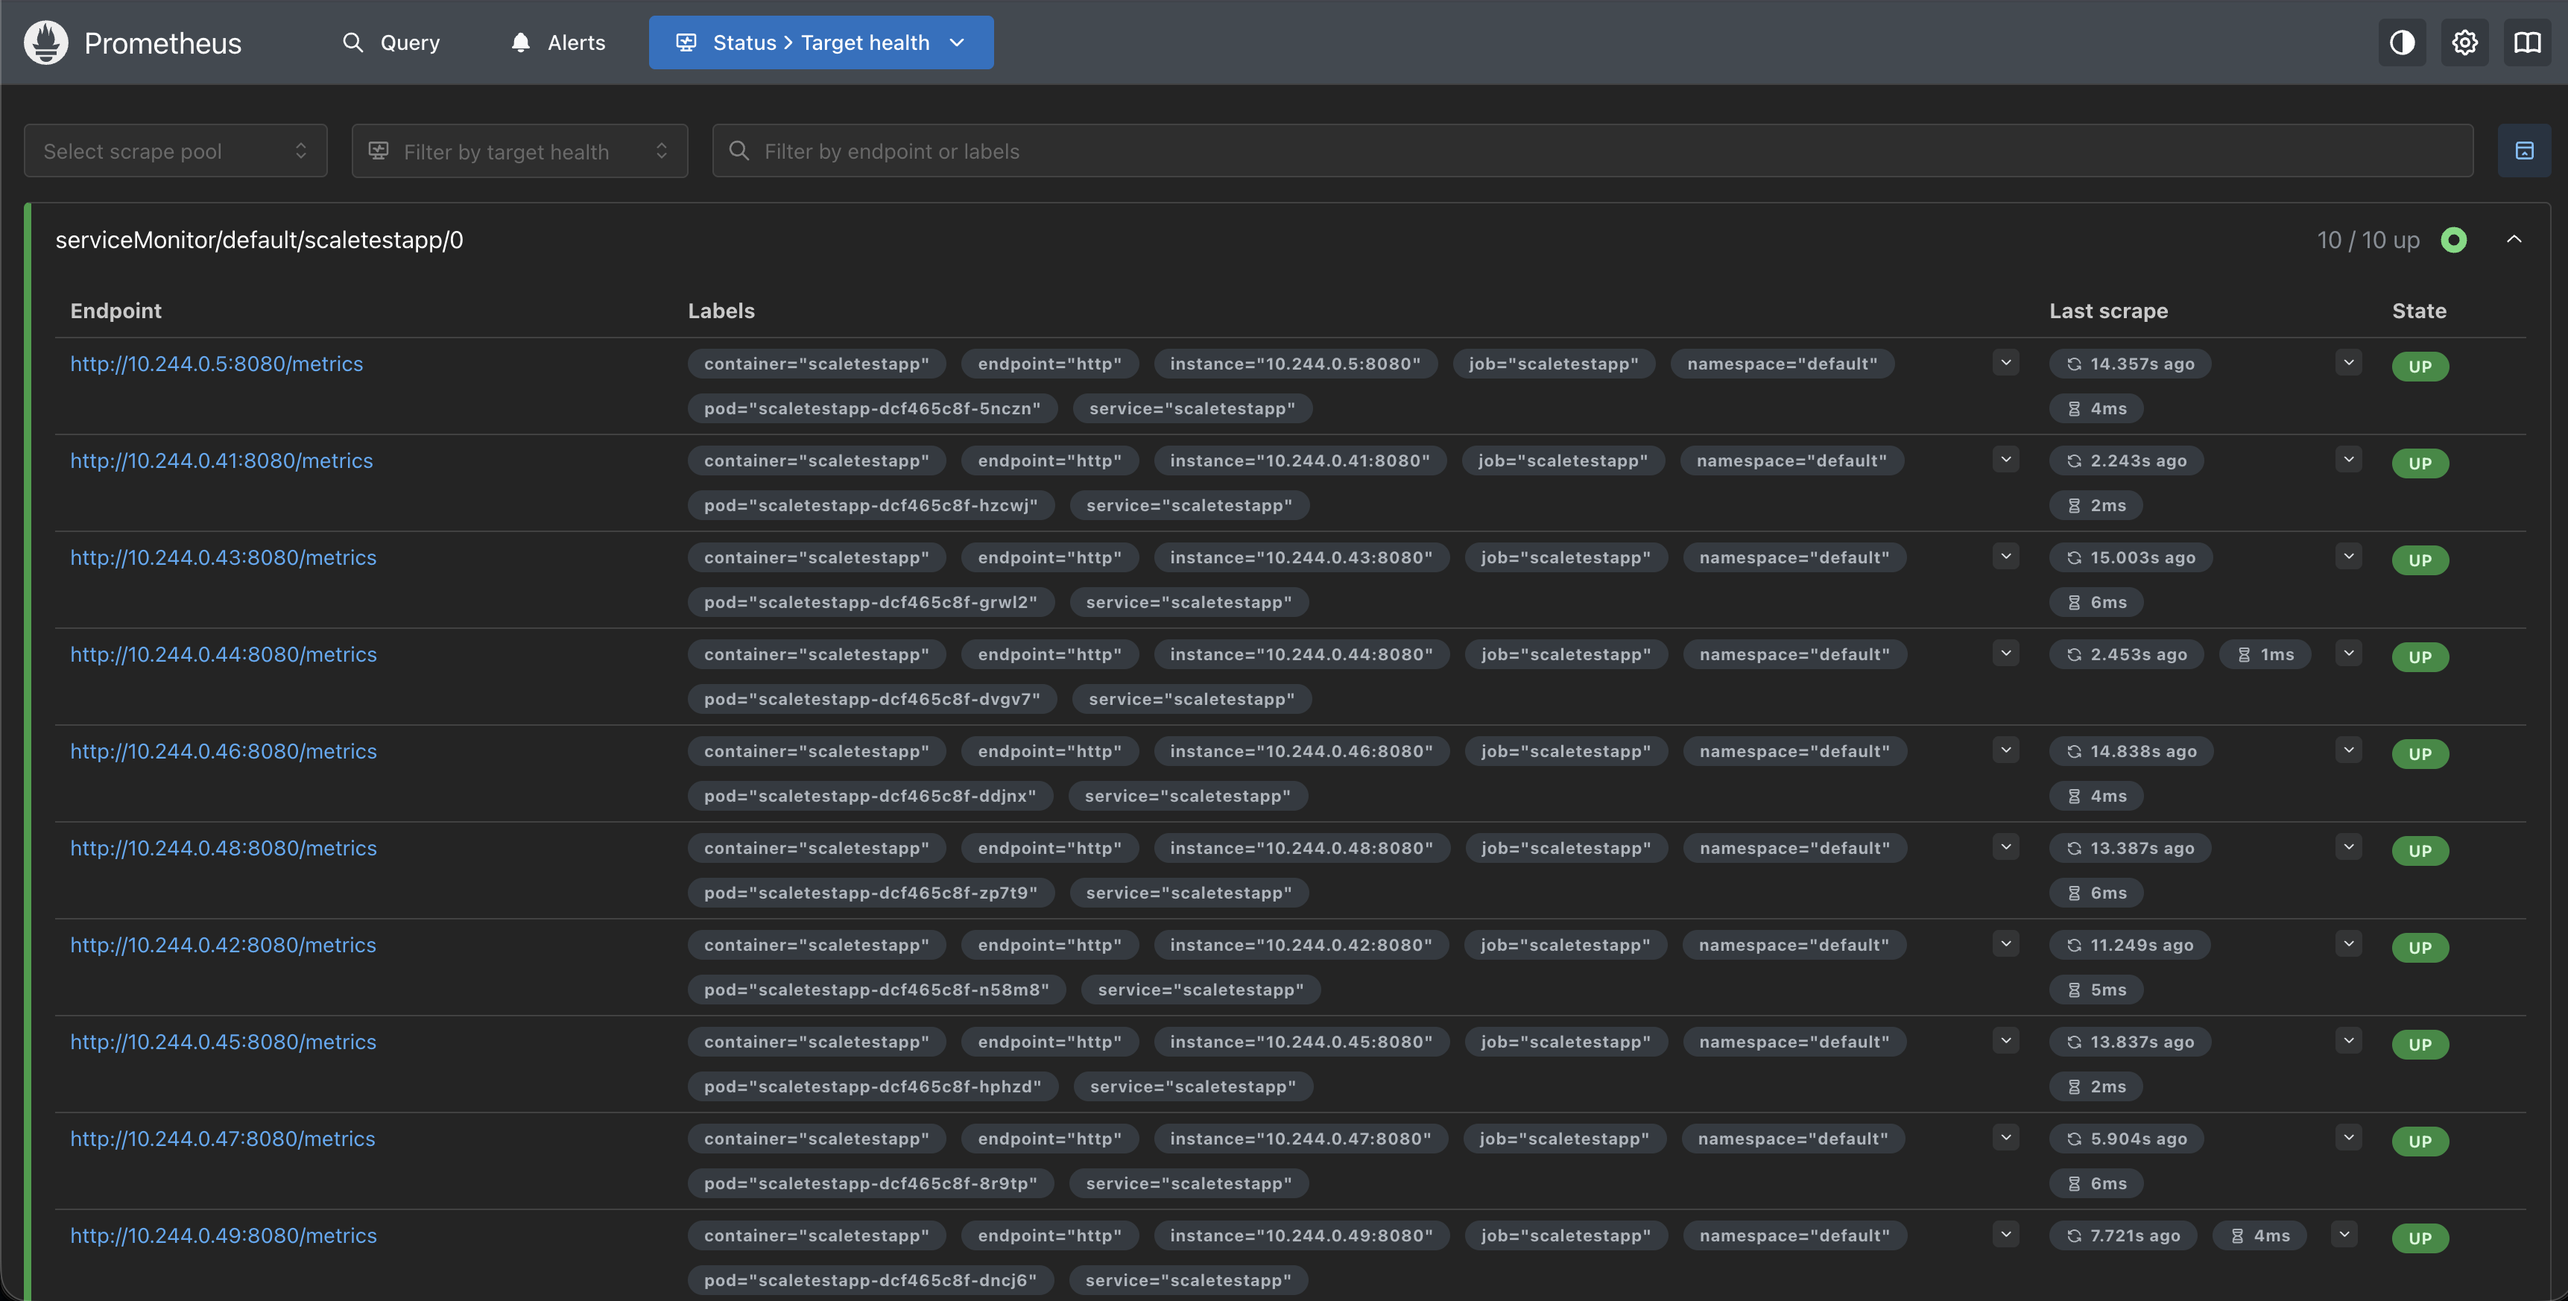
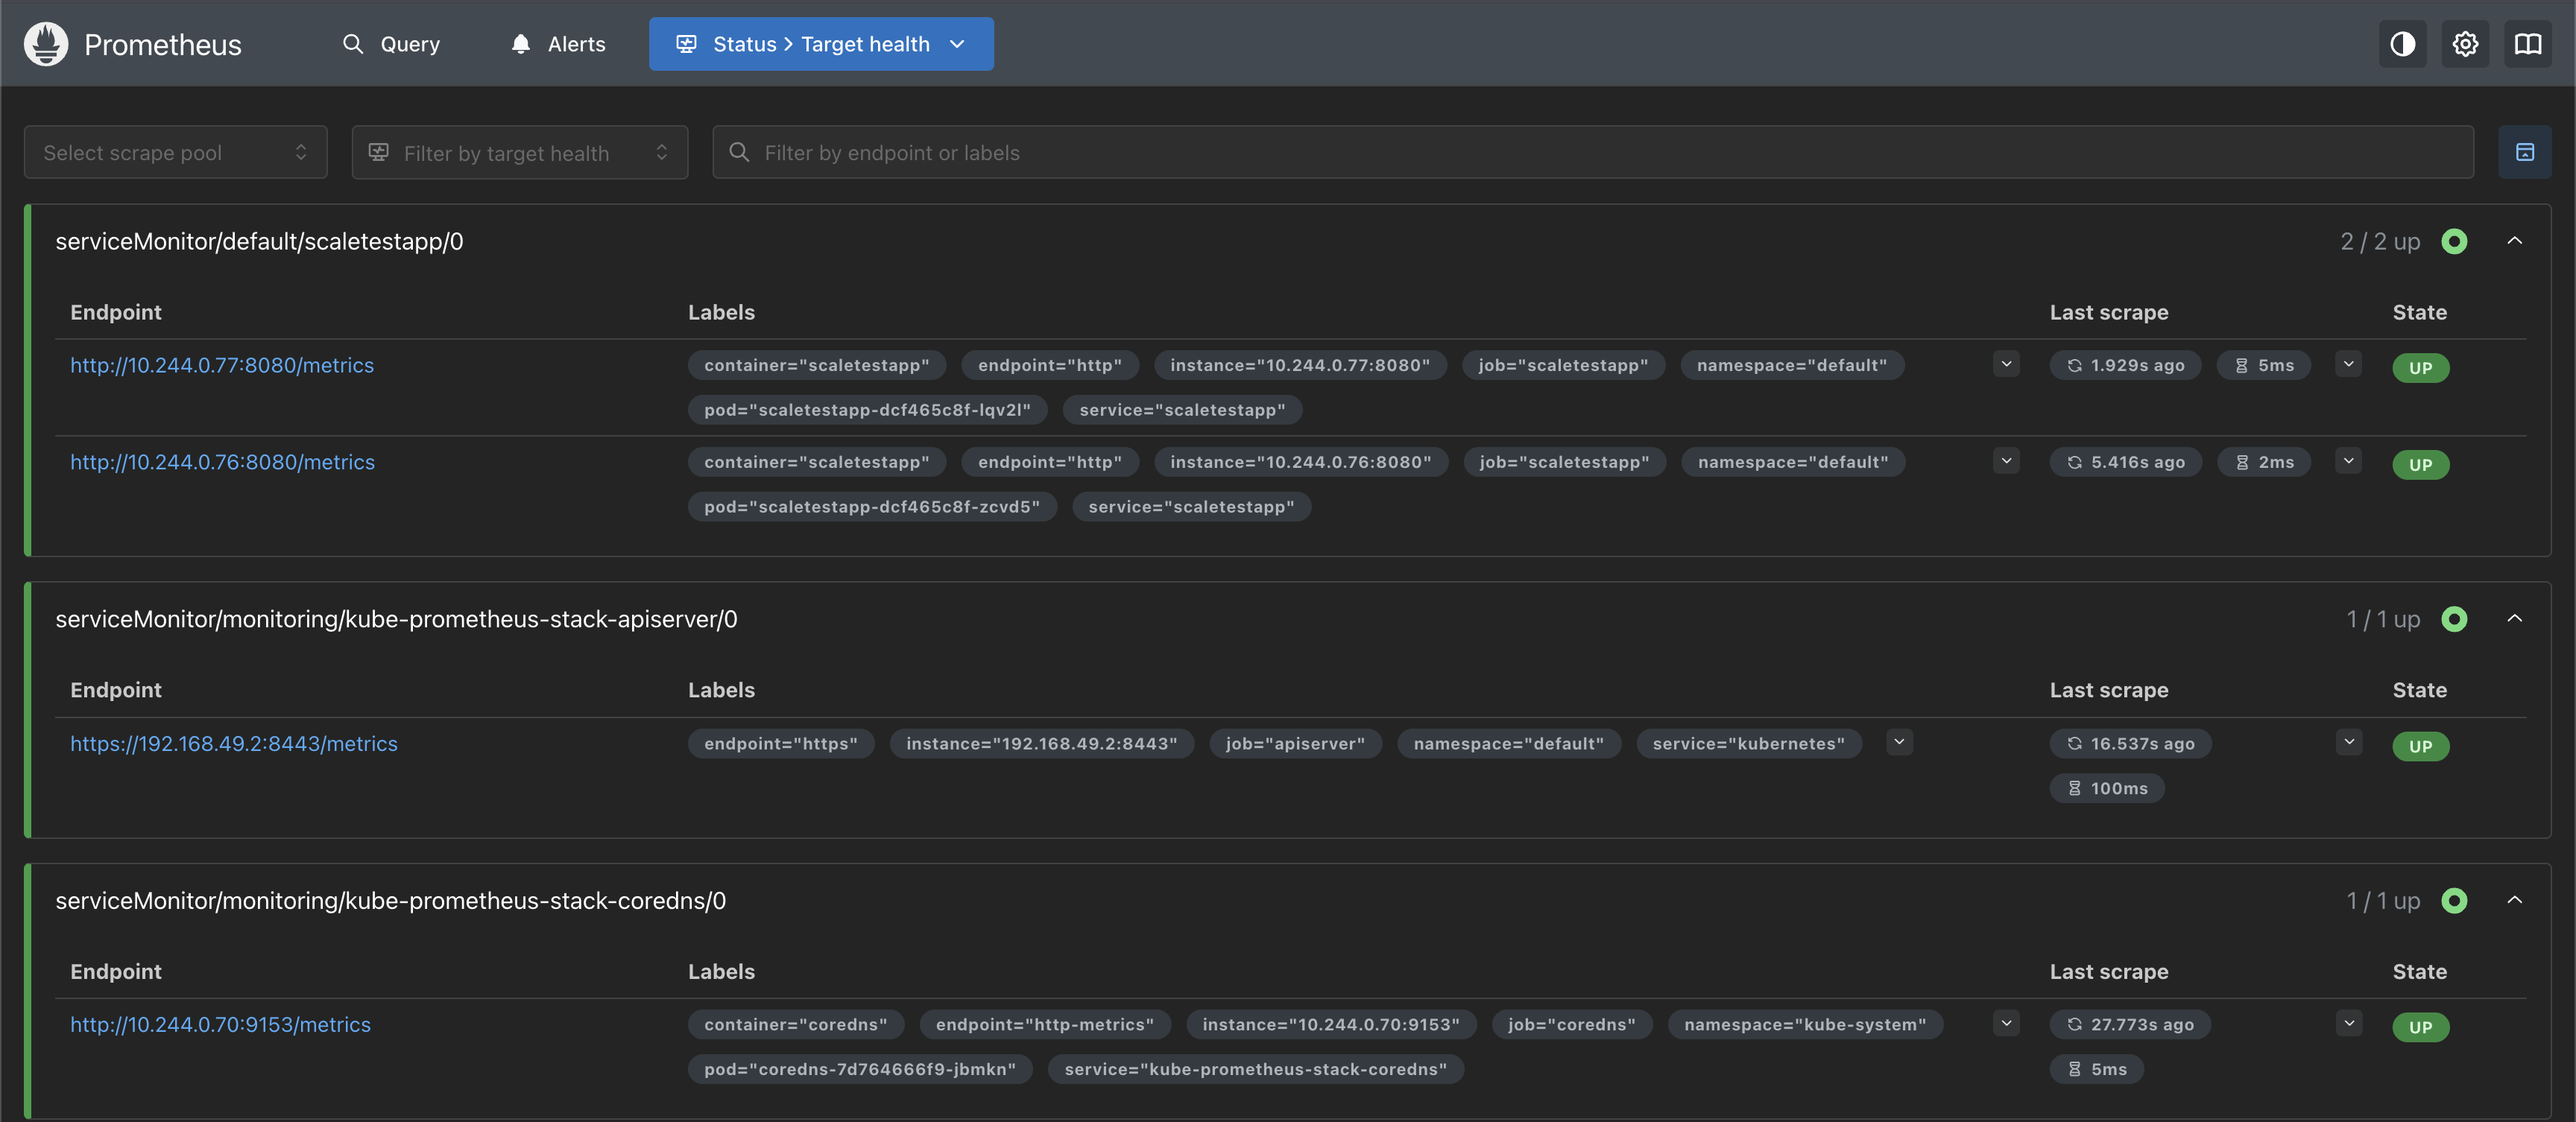
Refresh Task2 Locust scaling evidence

diff --git a/Task2/README.md b/Task2/README.md
@@ -10,6 +10,21 @@
 - `06-hpa-rps.yaml` — HPA по RPS на один pod, target `10`.
 - `locustfile.py` — нагрузочный сценарий для `/`.
 
+## Evidence
+
+- `evidence/01-app-running.png` — приложение, pod и NodePort service запущены.
+- `evidence/02-memory-hpa-before.png` — HPA по памяти до нагрузки.
+- `evidence/03-memory-hpa-scaled.png` — HPA по памяти увеличил replicas.
+- `evidence/04-memory-hpa-details.png` — детали HPA по памяти и `ValidMetricFound`.
+- `evidence/05-prometheus-targets.png` — Prometheus target `scaletestapp` в состоянии `UP`.
+- `evidence/06-prometheus-http-requests-total.png` — Prometheus видит `http_requests_total`.
+- `evidence/07-prometheus-rate.png` — Prometheus считает `sum(rate(http_requests_total[1m]))`.
+- `evidence/08-custom-metric-rps.png` — Custom Metrics API отдаёт `http_requests_per_second`.
+- `evidence/09-rps-hpa-before.png` — HPA по RPS до нагрузки.
+- `evidence/10-rps-hpa-watch.png` — HPA по RPS масштабируется под Locust-нагрузкой.
+- `evidence/11-rps-hpa-scaled.png` — deployment масштабирован под RPS-нагрузкой.
+- `evidence/12-locust-ui-running.png` — Locust UI с нагрузкой на `/`.
+
 ## Часть 1: HPA по памяти
 
 ```bash
@@ -65,6 +80,7 @@ kubectl port-forward -n monitoring svc/kube-prometheus-stack-prometheus 9090:909
 - Prometheus `Status → Targets`: target `scaletestapp` в состоянии `UP`.
 - Prometheus `Graph`: `http_requests_total` или `rate(http_requests_total[1m])`.
 - Kubernetes dashboard или `kubectl get hpa scaletestapp-hpa -w`, где видно увеличение replicas.
+- Locust UI, где видно нагрузку на `/`, RPS и процент ошибок.
 
 ## Статическая проверка
 
